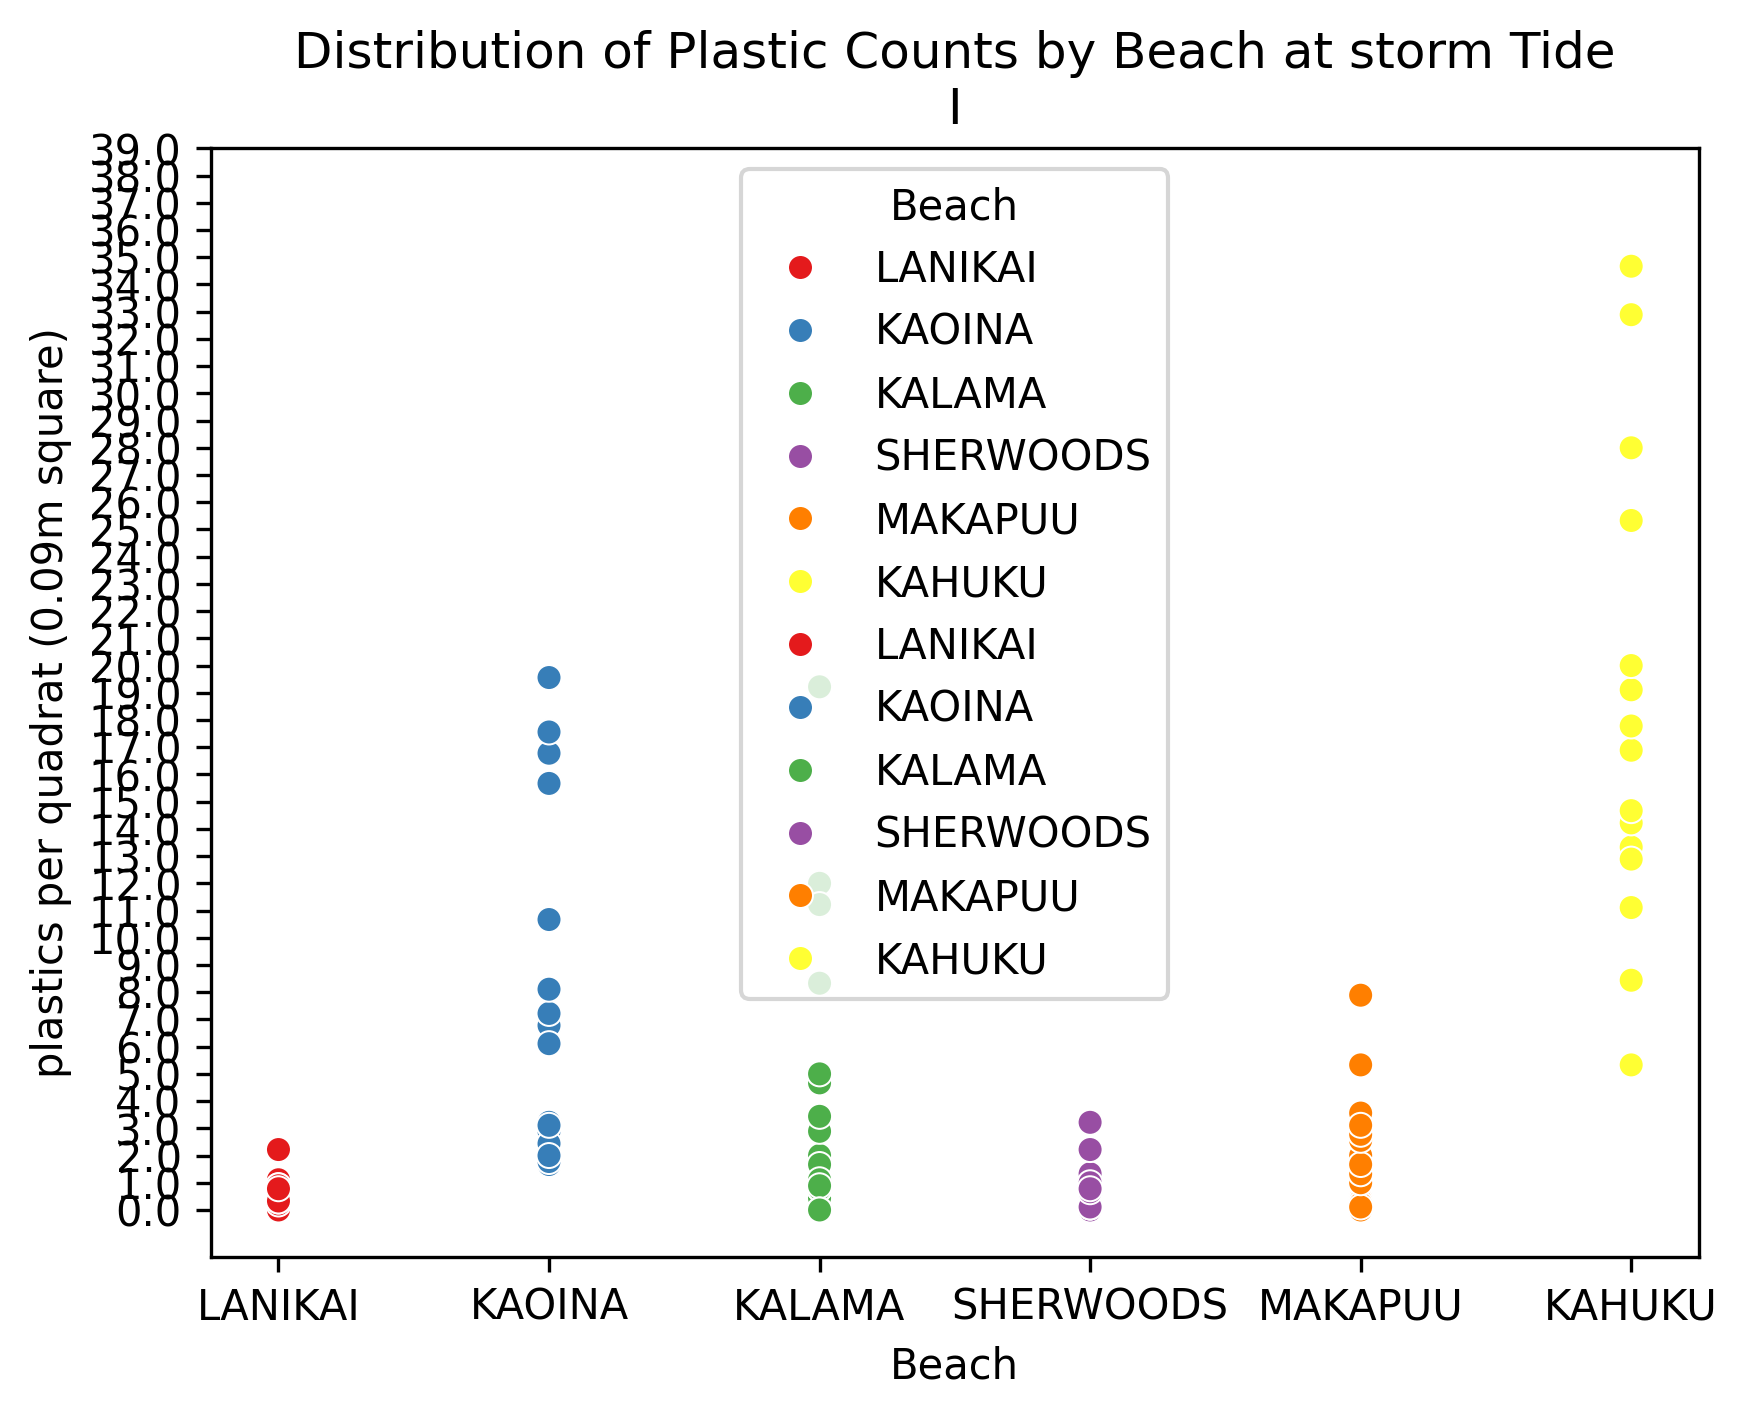
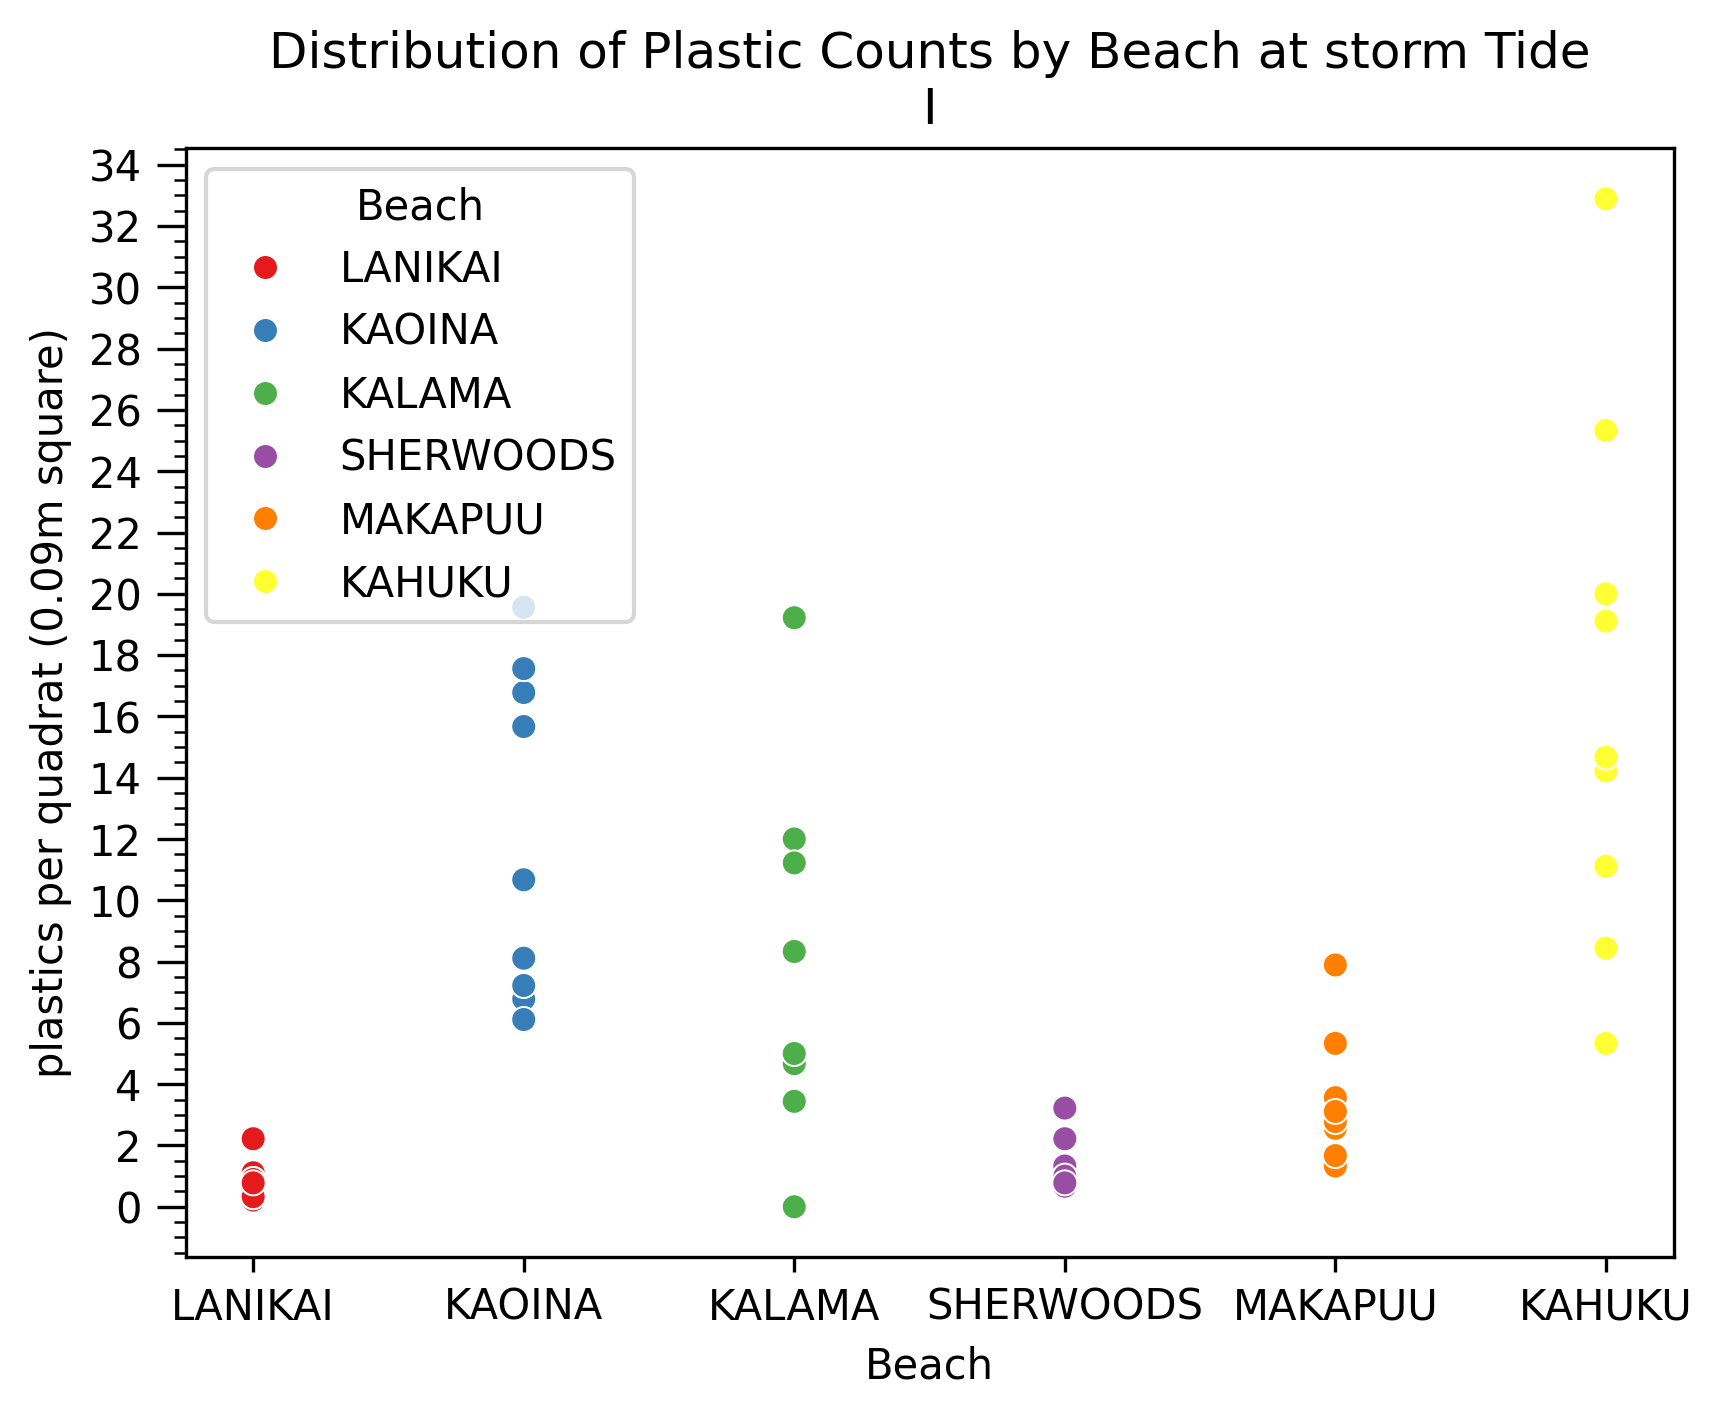
More scatter plot cleaning

diff --git a/plastic_counts_by_beach.py b/plastic_counts_by_beach.py
@@ -21,19 +21,26 @@ bins = np.arange(0,3501,50)
     #plt.hist("plastics per quadrat (0.09m square)",bins=np.arange(0,3501,50),data=data__particles_per_quad[(data__particles_per_quad["Tide"].isin(["high"])) & (data__particles_per_quad["Beach"].isin([b]))],label=b)
     #plt.hist("plastics per quadrat (0.09m square)",bins=np.arange(0,3501,50),data=data__particles_per_quad[(data__particles_per_quad["Tide"].isin(["high"])) & (data__particles_per_quad["Beach"].isin([b]))],label=b)
 
-'''for t in sorted(list(set(data__particles_per_quad["Tide"].to_numpy()))):
+for t in sorted(list(set(data__particles_per_quad["Tide"].to_numpy()))):
     #sns.histplot(data=data__particles_per_quad[(data__particles_per_quad["Tide"].isin([t]))],x="plastics per quadrat (0.09m square)", bins=bins,hue="Beach",multiple="dodge",palette="Set1",edgecolor='black')#, color="#93A8BF")
-    sns.scatterplot(data=data__particles_per_quad[(data__particles_per_quad["Tide"].isin([t]))],x="Beach",y="plastics per quadrat (0.09m square)",hue="Beach",palette="Set1")
+    fig,ax = plt.subplots()
+    sns.scatterplot(data=data__particles_per_quad[(data__particles_per_quad["Tide"].isin([t]))],x="Beach",y="plastics per quadrat (0.09m square)",ax=ax,hue="Beach",palette="Set1")
     #ticks = np.arange(0,4_000,100)
-    y_ticks = np.arange(0,4_000,100)
+    #y_ticks = np.arange(0,4_000,100)
+    ax.yaxis.set_major_locator(MultipleLocator(200))
+    ax.yaxis.set_minor_locator(MultipleLocator(50))
+    ax.yaxis.set_major_formatter(FuncFormatter(lambda x,pos:f"{x/100:,.0f}"))
+    ax.yaxis.set_minor_formatter(NullFormatter())
+    ax.tick_params(axis='y',which='major',length=7)
+    ax.tick_params(axis='y',which='minor',length=3)
     #plt.xticks(ticks,[f"{x/100:,.0f}" for x in ticks])
-    plt.yticks(y_ticks,[f"{x/100:,}" for x in y_ticks])
+    #plt.yticks(y_ticks,[f"{x/100:,}" for x in y_ticks])
     #plt.xlabel("plastics per quadrat (0.09m square)\n(in 100s)")
     plt.title(f"Distribution of Plastic Counts by Beach at {t} Tide\nI")
     #plt.legend()
     plt.savefig(f"Distribution of Plastic Counts at {t} Tide by Beach.png",dpi=300, bbox_inches="tight")
-    #plt.show()'''
-fig,ax = plt.subplots()
+    #plt.show()
+'''fig,ax = plt.subplots()
     
 #for t in sorted(list(set(data__particles_per_quad["Tide"].to_numpy()))):
     #sns.histplot(data=data__particles_per_quad[(data__particles_per_quad["Tide"].isin([t]))],x="plastics per quadrat (0.09m square)", bins=bins,hue="Beach",multiple="dodge",palette="Set1",edgecolor='black')#, color="#93A8BF")
@@ -53,7 +60,7 @@ plt.ylabel(f"plastics per quadrat (0.09m square)\nin 100s")
 plt.title(f"Distribution of Plastic Counts by Beach and Tide")
 #plt.legend()
 plt.savefig(f"Distribution of Plastic Counts by Beach and Tide.png",dpi=300, bbox_inches="tight")
-#plt.show()
+#plt.show()'''
 
 '''for b in sorted(list(set(data__particles_per_quad["Beach"].to_numpy()))):
     sns.scatterplot(data=data__particles_per_quad[data__particles_per_quad["Beach"]==b],x="Beach",y="plastics per quadrat (0.09m square)",hue="Tide",palette="Set1")
